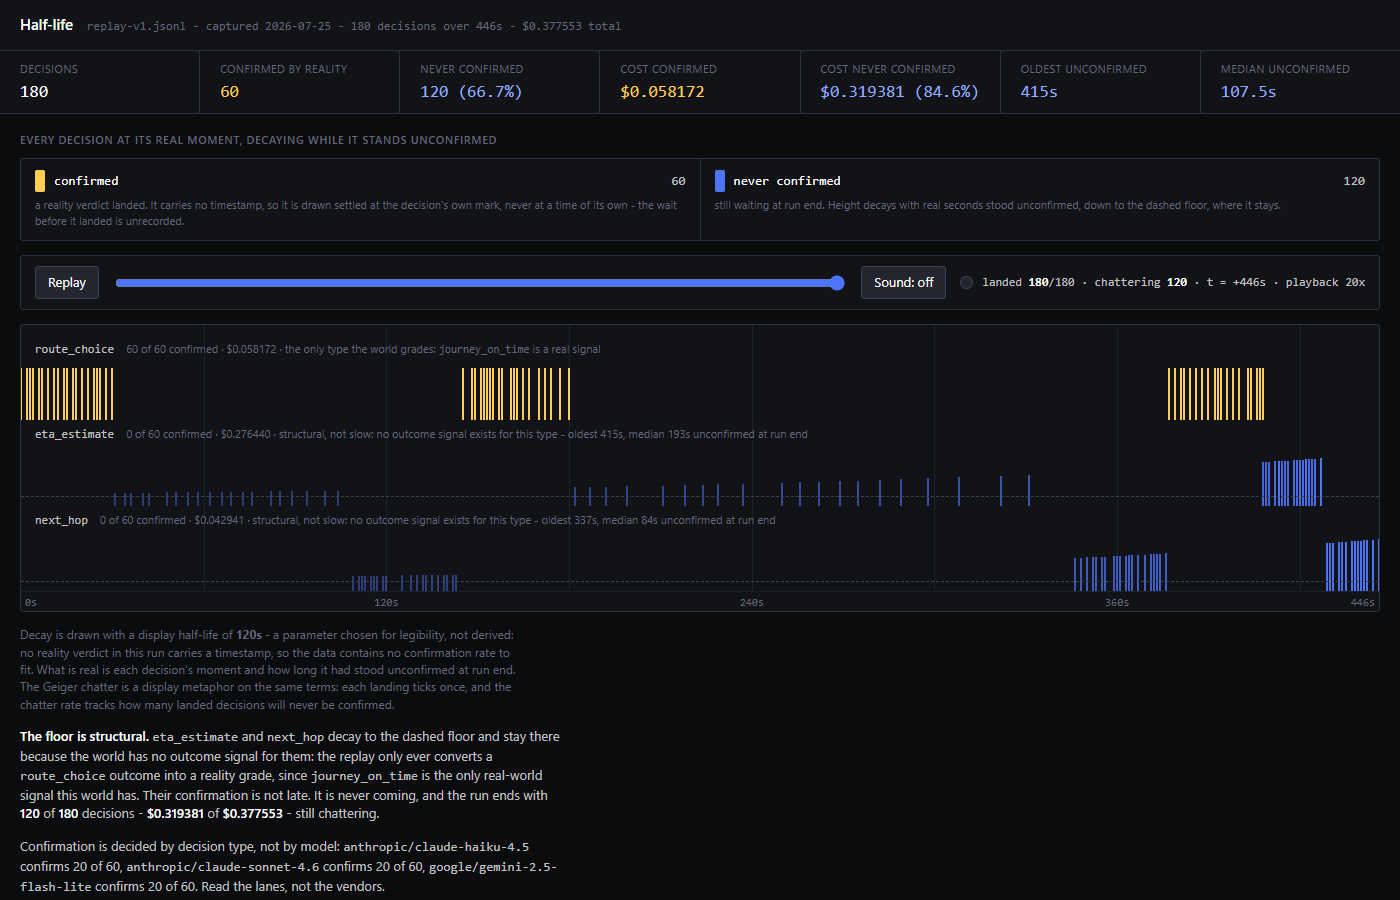
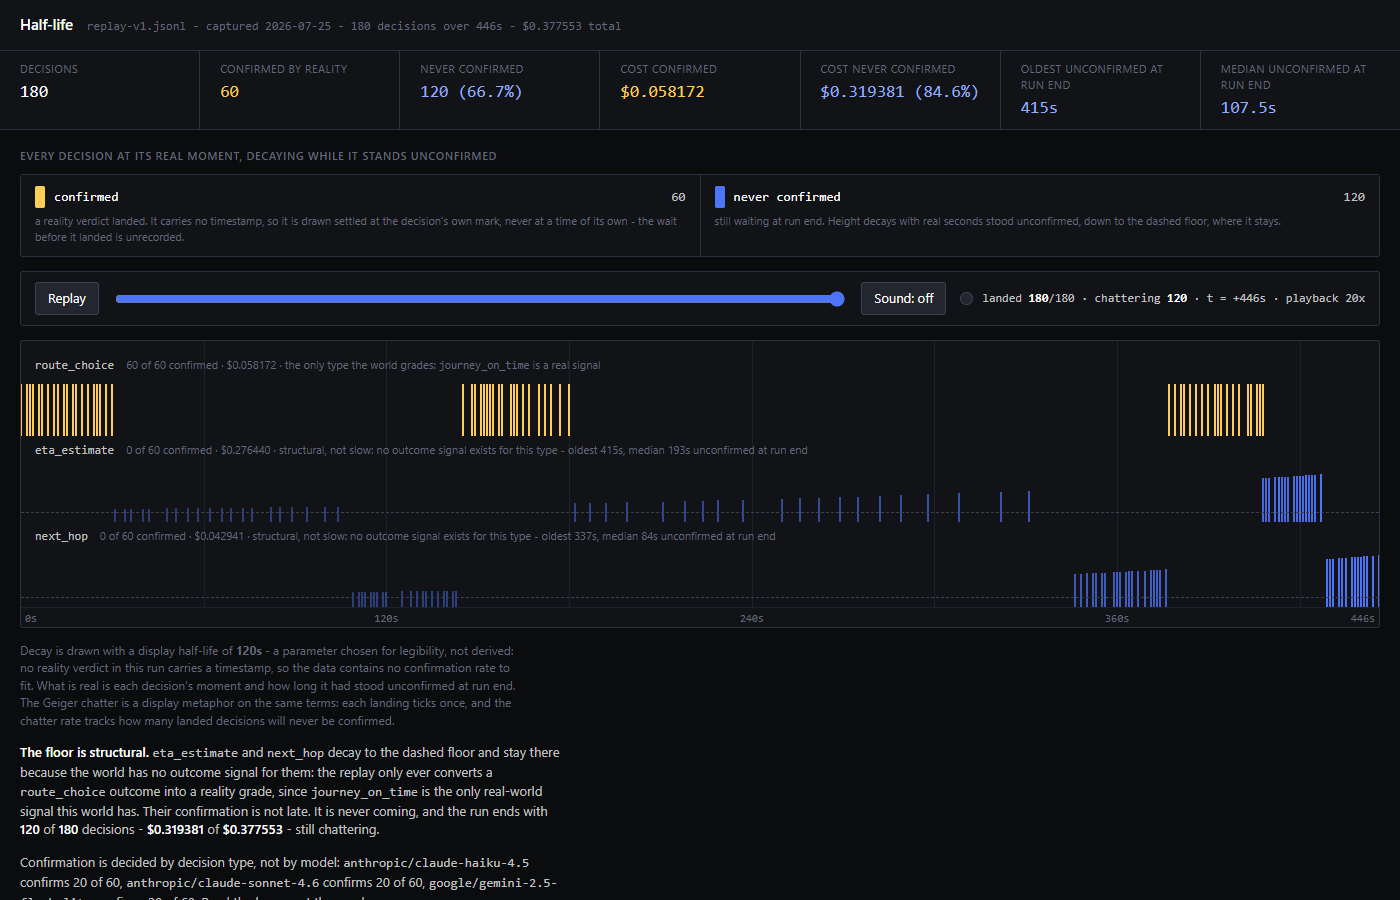
fix(visuals): clear review round 2 minors on the half-life page (#63)
Six deferred Minor findings: stat tile labels now say "at run end" to
match the lane captions, the dead Math.max floor guard is dropped, a
shared --floor-h custom property keeps JS and CSS in sync instead of a
comment, a missing run-data.js now routes into the same self-check
banner instead of a blank page, a landing tick's flash can no longer be
swallowed by a same-frame chatter flash, and the README's half-life
section uses confirm/lock language throughout instead of borrowing the
regret ledger's close verbs. No displayed figure changed; half-life.png
regenerated only because finding 1 changes rendered text.

diff --git a/docs/visuals/half-life.html b/docs/visuals/half-life.html
@@ -29,6 +29,12 @@
     --mono: "Geist Mono", "Space Mono", "Fira Code", ui-monospace, SFMono-Regular, Menlo, monospace;
   }
 
+  /* Page-specific token, not part of the shared block above - keeps this
+     file's :root byte-identical to genome-strip.html's. */
+  :root {
+    --floor-h: 9px; /* the height an unconfirmed mark decays to; read by JS as FLOOR_H below */
+  }
+
   * { box-sizing: border-box; }
   body {
     margin: 0; background: var(--bg-ink-500); color: var(--text);
@@ -108,7 +114,7 @@
   .lane { position: relative; height: 58px; overflow: hidden; }
   .lane.unconfirmable::after {
     /* The floor: the height an unconfirmed mark decays to and then holds. */
-    content: ""; position: absolute; left: 0; right: 0; bottom: 9px;
+    content: ""; position: absolute; left: 0; right: 0; bottom: var(--floor-h);
     border-top: 1px dashed var(--bg-slate-100);
   }
   .mark { position: absolute; bottom: 0; width: 2px; transform: translateX(-50%); background: var(--bg-robin-500); }
@@ -177,6 +183,16 @@
 <script>
   const RUN = window.RUN;
   const money = (n) => '$' + n.toFixed(6);
+  function showCheckBanner(problems) {
+    const el = document.getElementById('check-banner');
+    el.hidden = false;
+    el.innerHTML = '<b>Self-check failed - refusing to render figures that may be wrong.</b> '
+      + problems.join('; ') + '. Re-run <code>docs/visuals/capture_run.py</code> and reload.';
+  }
+  if (!RUN || !Array.isArray(RUN.spans)) {
+    showCheckBanner(['run-data.js did not load - window.RUN is missing']);
+    throw new Error('half-life.html self-check failed: window.RUN is missing');
+  }
   const pct = (a, b) => (100 * a / b).toFixed(1) + '%';
   const attr = (s, k) => s.attributes[k];
   const rid = (s) => attr(s, 'gen_ai.response.id');
@@ -186,7 +202,8 @@
   const HALF_LIFE_S = 120;   // seconds of standing unconfirmed per halving
   const SPEED = 20;          // playback speedup: 446s of run in ~22s
   const CHATTER_PER_OPEN = 0.15; // display clicks per chattering decision per second
-  const FULL_H = 52, FLOOR_H = 9; // px; FLOOR_H matches .lane.unconfirmable::after bottom
+  const FULL_H = 52; // px
+  const FLOOR_H = parseFloat(getComputedStyle(document.documentElement).getPropertyValue('--floor-h')); // px; reads the same --floor-h the CSS floor uses
   const TAIL_S = 5;          // seconds of end-of-run chatter before the audio rests
 
   const TYPES = ['route_choice', 'eta_estimate', 'next_hop'];
@@ -220,10 +237,7 @@
 
   const problems = selfCheck();
   if (problems.length) {
-    const el = document.getElementById('check-banner');
-    el.hidden = false;
-    el.innerHTML = '<b>Self-check failed - refusing to render figures that may be wrong.</b> '
-      + problems.join('; ') + '. Re-run <code>docs/visuals/capture_run.py</code> and reload.';
+    showCheckBanner(problems);
     throw new Error('half-life.html self-check failed: ' + problems.join('; '));
   }
 
@@ -258,8 +272,8 @@
       ['Never confirmed', unconfirmed.length + ' (' + pct(unconfirmed.length, decisions.length) + ')', 'robin'],
       ['Cost confirmed', money(sumCost(confirmed)), 'amber'],
       ['Cost never confirmed', money(sumCost(unconfirmed)) + ' (' + pct(sumCost(unconfirmed), sumCost(decisions)) + ')', 'robin'],
-      ['Oldest unconfirmed', agesAtEnd[agesAtEnd.length - 1] + 's', 'robin'],
-      ['Median unconfirmed', median(agesAtEnd) + 's', 'robin'],
+      ['Oldest unconfirmed at run end', agesAtEnd[agesAtEnd.length - 1] + 's', 'robin'],
+      ['Median unconfirmed at run end', median(agesAtEnd) + 's', 'robin'],
     ];
     document.getElementById('stats').innerHTML = rows.map(([k, v, cls]) =>
       '<div class="stat ' + cls + '"><dt>' + k + '</dt><dd>' + v + '</dd></div>').join('');
@@ -397,7 +411,7 @@
       } else {
         open++;
         const k = decay(T - d.off);
-        el.style.height = Math.max(FLOOR_H, FLOOR_H + (FULL_H - FLOOR_H) * k).toFixed(1) + 'px';
+        el.style.height = (FLOOR_H + (FULL_H - FLOOR_H) * k).toFixed(1) + 'px';
         el.style.opacity = (0.35 + 0.65 * k).toFixed(2);
       }
     });
@@ -414,11 +428,13 @@
     if (!playing) return;
     const dt = Math.min(0.1, (now - (lastFrame || now)) / 1000);
     lastFrame = now;
+    let landedThisFrame = false;
     if (T < W) {
       T = Math.min(W, T + dt * SPEED);
       for (; tickIdx < decisions.length && decisions[tickIdx].off <= T; tickIdx++) {
         flash('flash');
         click(1250, 0.12, 0.03);
+        landedThisFrame = true;
       }
     } else {
       tail += dt;
@@ -426,7 +442,9 @@
     const open = update();
     // Geiger chatter: expected clicks this frame scale with how many landed
     // decisions will never be confirmed. Display metaphor, labeled on the page.
-    if (Math.random() < open * CHATTER_PER_OPEN * dt) {
+    // Skipped on a frame that already ticked a landing so the brighter landing
+    // flash, sharing the same lamp element, is never swallowed by a chatter flash.
+    if (!landedThisFrame && Math.random() < open * CHATTER_PER_OPEN * dt) {
       flash('flash-dim');
       click(2300, 0.05, 0.015);
     }

diff --git a/docs/visuals/README.md b/docs/visuals/README.md
@@ -116,11 +116,11 @@ at full height for good; nothing else ever raises one back up.
 
 **180 decisions, $0.377553 total, over a 446s (7.4 min) window - 60 confirmed
 by reality, 120 (66.7%) never confirmed.** $0.058172 of the spend sits in
-decisions reality closed; $0.319381 (84.6%) sits in decisions it never
+decisions reality confirmed; $0.319381 (84.6%) sits in decisions it never
 touched. At run end the oldest unconfirmed decision has stood for 415s, the
-median for 107.5s. Per type: `route_choice` closes all 60 of 60, $0.058172,
-spanning 0s to 408s. `eta_estimate` closes 0 of 60, $0.276440, spanning 31s to
-427s, oldest unconfirmed 415s, median 193s. `next_hop` closes 0 of 60,
+median for 107.5s. Per type: `route_choice` confirms all 60 of 60, $0.058172,
+spanning 0s to 408s. `eta_estimate` confirms 0 of 60, $0.276440, spanning 31s to
+427s, oldest unconfirmed 415s, median 193s. `next_hop` confirms 0 of 60,
 $0.042941, spanning 109s to 446s, oldest unconfirmed 337s, median 84s. Every
 model confirms at exactly 20 of 60 - `anthropic/claude-haiku-4.5`,
 `anthropic/claude-sonnet-4.6`, `google/gemini-2.5-flash-lite` - because
